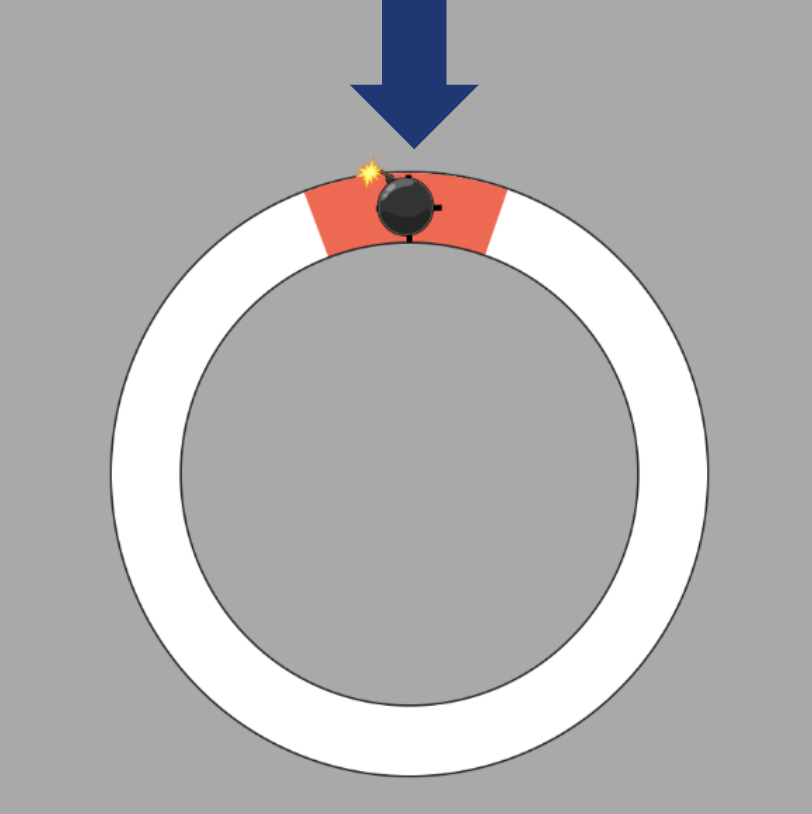
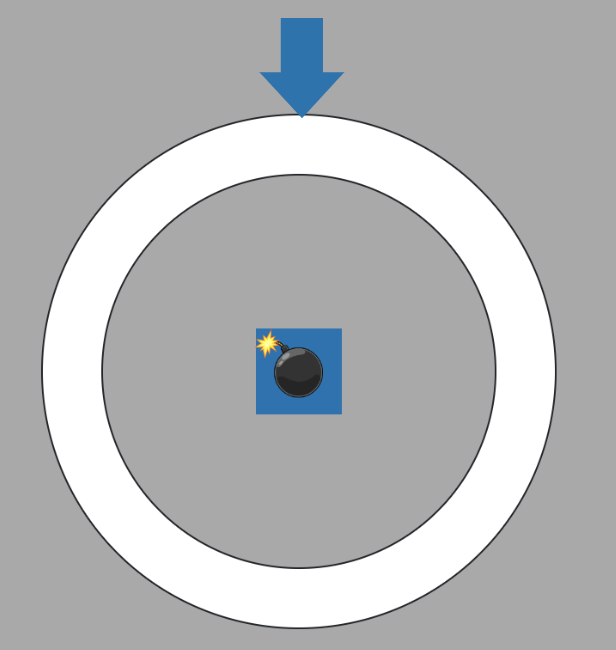
changed task image and instructions

Changed region(s): [[0.0617, 0.0, 0.9253, 0.9846], [0.401, 0.4923, 0.5552, 0.6462]]

diff --git a/src/timelines/main.js b/src/timelines/main.js
@@ -376,8 +376,8 @@ function buildTimeline(jsPsych) {
     <p style='width: 960px;line-height:2;text-align:center;font-size:40px'><br>
       <br>Let's practice!
       <p style='width: 960px;line-height:2;text-align:left'>
-      <b>Here's a hint:</b> In this round, the zombies will attack <u>around 12 o'clock on average</u> (shown in image above).
-      Although you may not hit every one, you should try to place your bomb here everytime to kill as many zombies as possible! 
+      <b>Here's a hint:</b> In this round, the zombies will tend to attack <u>around 12 o'clock</u> (shown in image above).
+      Although you may not hit every one, you should place your bomb here everytime to kill as many zombies as possible! 
       </div>`,
   };//In order to kill as many zombies as possible, you should place your bomb here everytime!
 
@@ -385,9 +385,11 @@ function buildTimeline(jsPsych) {
     type: jsPsychHtmlbuttonResponse,
     stimulus: `<div><<img src=${images['zombie.png']} style='top:20%; left: 10% ;height:300px;width: 300px'><h1></h1> 
     <p style='width: 960px;line-height:2;text-align:center'><br>
-      <br>Last round, we told you the exact central attack point of the zombies to guide your bomb placement. Now, you will practice finding the best bomb location on your own. Good luck!
-      <br><b>Reminder: </b>The zombies will occasionally change their average attack point. Make sure to readjust your aim.
+      <br>This round, we will not show you the zombies attack location, but you will have to find it on your own. This will be true for the rest of the task.
+      <br><b>Reminder: </b>The zombies will occasionally redirect their general attack location to a completely new location. Make sure to readjust your aim.
       </div>`,
+      // Last round, we told you the exact central attack point of the zombies to guide your bomb placement. Now, you will practice finding the best bomb location on your own. Good luck!
+      //However, we will not tell you the zombies attack location this time, but you will have to figure this out. This will be true for the rest of the trials.
     choices: ['Start'],
   };
 
